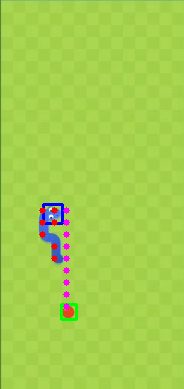
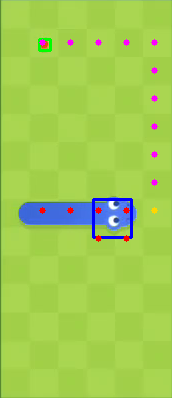
Feature: Fully automomously play a round of Snake

diff --git a/src/ImageAnalyser.py b/src/ImageAnalyser.py
@@ -61,7 +61,7 @@ class ImageAnalyser:
         Returns:
             (x, y, w, h) position and dimensions of the detected object, or None if not found.
         """
-        # Create color mask
+        # Create colour mask
         lower_bound_np = np.array(lower_bound, dtype="uint8")
         upper_bound_np = np.array(upper_bound, dtype="uint8")
 
@@ -113,7 +113,7 @@ class ImageAnalyser:
         is_snake_head=False,
     ) -> Optional[Tuple[int, int, int, int]]:
         """
-        Detect an object  by color filtering in HSV space.
+        Detect an object  by colour filtering in HSV space.
 
         Args:
             frame: BGR image frame
@@ -121,7 +121,7 @@ class ImageAnalyser:
             upper_bound: Upper HSV bound as [H, S, V]
 
         Returns:
-            (x, y) position of the detected object's center, or None if not found
+            (x, y) position of the detected object's centre, or None if not found
         """
 
         # First locate contours
@@ -140,7 +140,7 @@ class ImageAnalyser:
         # Extract ROI for eye detection
         roi_hsv = frame[y : y + h, x : x + w]
 
-        # Detect white/light colored eyes
+        # Detect white/light coloured eyes
         # Adjusted thresholds for better eye detection
         lower_bound_white = np.array([0, 0, 180], dtype="uint8")
         upper_bound_white = np.array([180, 60, 255], dtype="uint8")
@@ -161,7 +161,7 @@ class ImageAnalyser:
             valid_eyes = [c for c in contours_eyes if cv.contourArea(c) > 5]
 
             if valid_eyes:
-                # Calculate center of all eye contours
+                # Calculate centre of all eye contours
                 all_eyes = np.concatenate(valid_eyes)
                 M = cv.moments(all_eyes)
 
@@ -170,14 +170,14 @@ class ImageAnalyser:
                     cy_local = int(M["m01"] / M["m00"])
                     return (x + cx_local, y + cy_local, w, h)
 
-        #  Use the center of the largest contour
+        #  Use the centre of the largest contour
         M = cv.moments(largest_contour)
         if M["m00"] != 0:
             cx = int(M["m10"] / M["m00"])
             cy = int(M["m01"] / M["m00"])
             return (cx, cy, w, h)
 
-        # Final fallback: Use bounding box center
+        # Final fallback: Use bounding box centre
         return (x + w // 2, y + h // 2, w, h)
 
     def match_with_template(

diff --git a/src/Bot.py b/src/Bot.py
@@ -49,7 +49,7 @@ class Bot:
         self.bitrate = bitrate
         self.max_fps = max_fps
 
-        # Initalise image calibration
+        # Initialise image calibration
         self.image_analyser = ImageAnalyser()
 
         # Run hotkey in background
@@ -80,7 +80,13 @@ class Bot:
 
         # Define movement directions for bot
         # dn=north(up), ds=south(down), de=east(right), dw=west(left)
-        self.dirs = {"dn": (0, -1), "ds": (0, 1), "de": (1, 0), "dw": (-1, 0)}  # x, y
+        self.dirs = {"dn": (0, -1), "ds": (0, 1), "de": (1, 0), "dw": (-1, 0)}  # x,y
+        self.dirs_alt = {
+            (0, -1): "dn",
+            (0, 1): "ds",
+            (1, 0): "de",
+            (-1, 0): "dw",
+        }  # x,y
         self.opposite_dir = {"dn": "ds", "ds": "dn", "dw": "de", "de": "dw"}
         self.cur_dir = "de"
 
@@ -276,6 +282,27 @@ class Bot:
 
             # Move the snake
             print(self.cur_path[0], self.snake_snoot_coords)
+            self._move_snake()
+
+    def _move_snake(self) -> None:
+        if self.snake_snoot_coords[0] is None:
+            return
+        dx = self.cur_path[0][0] - self.snake_snoot_coords[0]
+        dy = self.cur_path[0][1] - self.snake_snoot_coords[1]
+
+        # Which direction to move in
+        new_dir = self.dirs_alt[(dx, dy)]
+        opposite_from_cur = self.opposite_dir.get(self.cur_dir)
+
+        if new_dir == opposite_from_cur:
+            return
+
+        code = self.KEYS.get(new_dir)
+
+        if code and new_dir:
+            self.cur_dir = new_dir
+            self.client.control.keycode(code, const.ACTION_DOWN)
+            self.client.control.keycode(code, const.ACTION_UP)
 
     def _get_snake_snooter_tip(
         self, snake_head_pos: Tuple[int, int], direction: str
@@ -362,6 +389,15 @@ class Bot:
                 frame=frame,
                 coordinates=self.cur_path,
                 colour_key="path",
+                is_grid_coords=True,
+            )
+
+        # Debug: Show current snoot position
+        if self.snake_snoot_coords[0] is not None:
+            self.frame_merchant.render_multi_coordinates(
+                frame=frame,
+                coordinates=[self.snake_snoot_coords],
+                colour_key="snoot",
                 is_grid_coords=True,
             )
 

diff --git a/src/FrameMerchant.py b/src/FrameMerchant.py
@@ -51,10 +51,11 @@ class FrameMerchant:
         self.colours: DefaultDict[str, Tuple[int, int, int]] = defaultdict(
             lambda: (0, 0, 0)
         )  # Default to black
-        self.colours["path"] = (255, 0, 255)
-        self.colours["snake"] = (0, 0, 255)
-        self.colours["apple"] = (0, 255, 0)
-        self.colours["snakehead"] = (255, 0, 0)
+        self.colours["path"] = (255, 0, 255)  # Magenta
+        self.colours["snake"] = (0, 0, 255)  # Red
+        self.colours["apple"] = (0, 255, 0)  # Green
+        self.colours["snakehead"] = (255, 0, 0)  # Blue
+        self.colours["snoot"] = (0, 215, 255)  # Gold (BGR format)
 
     def _parse_yaml(self, file_path: str) -> Optional[dict]:
         """Parse config yaml to setup dimensions.
@@ -195,7 +196,7 @@ class FrameMerchant:
             if is_grid_coords:
                 x, y = self._coords_to_pixels(grid_x=x, grid_y=y)
 
-            cv.circle(frame, (x, y), 3, colour, -1)  # OpenCV uses (x, y)
+            cv.circle(frame, (x, y), 3, colour, -1) 
 
     def get_grid_dims(self) -> Tuple[int, int]:
         """Return number of columns and rows."""

diff --git a/src/utils/test_crop_adjuster.py b/src/utils/test_crop_adjuster.py
@@ -20,7 +20,7 @@ class CropAdjuster:
         self.bottom = 480
 
         # Colouring
-        self.overlay_color = (255, 0, 255)  # Magenta
+        self.overlay_colour = (255, 0, 255)  # Magenta
         self.overlay_alpha = 0.4
 
     def start_video_feed(self) -> None:
@@ -112,7 +112,7 @@ class CropAdjuster:
             overlay = frame.copy()
 
             # Draw filled rectangle in magenta
-            cv.rectangle(overlay, (left, top), (right, bottom), self.overlay_color, -1)
+            cv.rectangle(overlay, (left, top), (right, bottom), self.overlay_colour, -1)
 
             # Blend overlay with original frame for transparency
             display_frame = cv.addWeighted(
@@ -121,7 +121,7 @@ class CropAdjuster:
 
             # Draw outline for clear boundary
             cv.rectangle(
-                display_frame, (left, top), (right, bottom), self.overlay_color, 1
+                display_frame, (left, top), (right, bottom), self.overlay_colour, 1
             )
 
             # Add text overlay with current values

diff --git a/src/utils/hsv_tuner.py b/src/utils/hsv_tuner.py
@@ -9,9 +9,9 @@ def nothing(x: Any) -> None:
     pass
 
 
-def tune_hsv_color(image_path: str) -> None:
+def tune_hsv_colour(image_path: str) -> None:
     """
-    Interactive HSV color tuner
+    Interactive HSV colour tuner
 
     Args:
         image_path: Path to a screenshot containing the snake
@@ -73,7 +73,7 @@ def tune_hsv_color(image_path: str) -> None:
                     result_with_contours, (x, y), (x + w, y + h), (0, 255, 0), 2
                 )
 
-                # Calculate and show center
+                # Calculate and show centre
                 M = cv.moments(largest)
                 if M["m00"] != 0:
                     cx = int(M["m10"] / M["m00"])
@@ -136,4 +136,4 @@ def tune_hsv_color(image_path: str) -> None:
 
 if __name__ == "__main__":
     image_path = "debug_screenshot.png"
-    tune_hsv_color(image_path)
+    tune_hsv_colour(image_path)

diff --git a/src/GameMap.py b/src/GameMap.py
@@ -13,7 +13,7 @@ class GameMap:
             row = []
             for c in range(self.NCOLS):
 
-                # Calculate center of this cell
+                # Calculate centre of this cell
                 centre_x = int(c * self.CELL_WPX + self.CELL_WPX / 2)
                 centre_y = int(r * self.CELL_HPX + self.CELL_HPX / 2)
 
@@ -51,7 +51,7 @@ class GameMap:
                 if is_snake_body:
                     logic_grid[r, c] = 1  # Mark as Obstacle
 
-                    snake_body.append((centre_x, centre_y))  # (x, y) format
+                    snake_body.append((centre_x, centre_y))
         # Pad the grid
         logic_grid = np.pad(logic_grid, pad_width=1, mode="constant", constant_values=1)
         return logic_grid, snake_body

diff --git a/src/testing/test.py b/src/testing/test.py
@@ -41,7 +41,7 @@ def move_snake(client, direction):
 def on_frame(client, frame):
     """
     This function runs every time the phone sends a new video frame.
-    frame: A numpy array representing the image (BGR color)
+    frame: A numpy array representing the image (BGR colour)
     """
     if frame is None:
         print("na")
